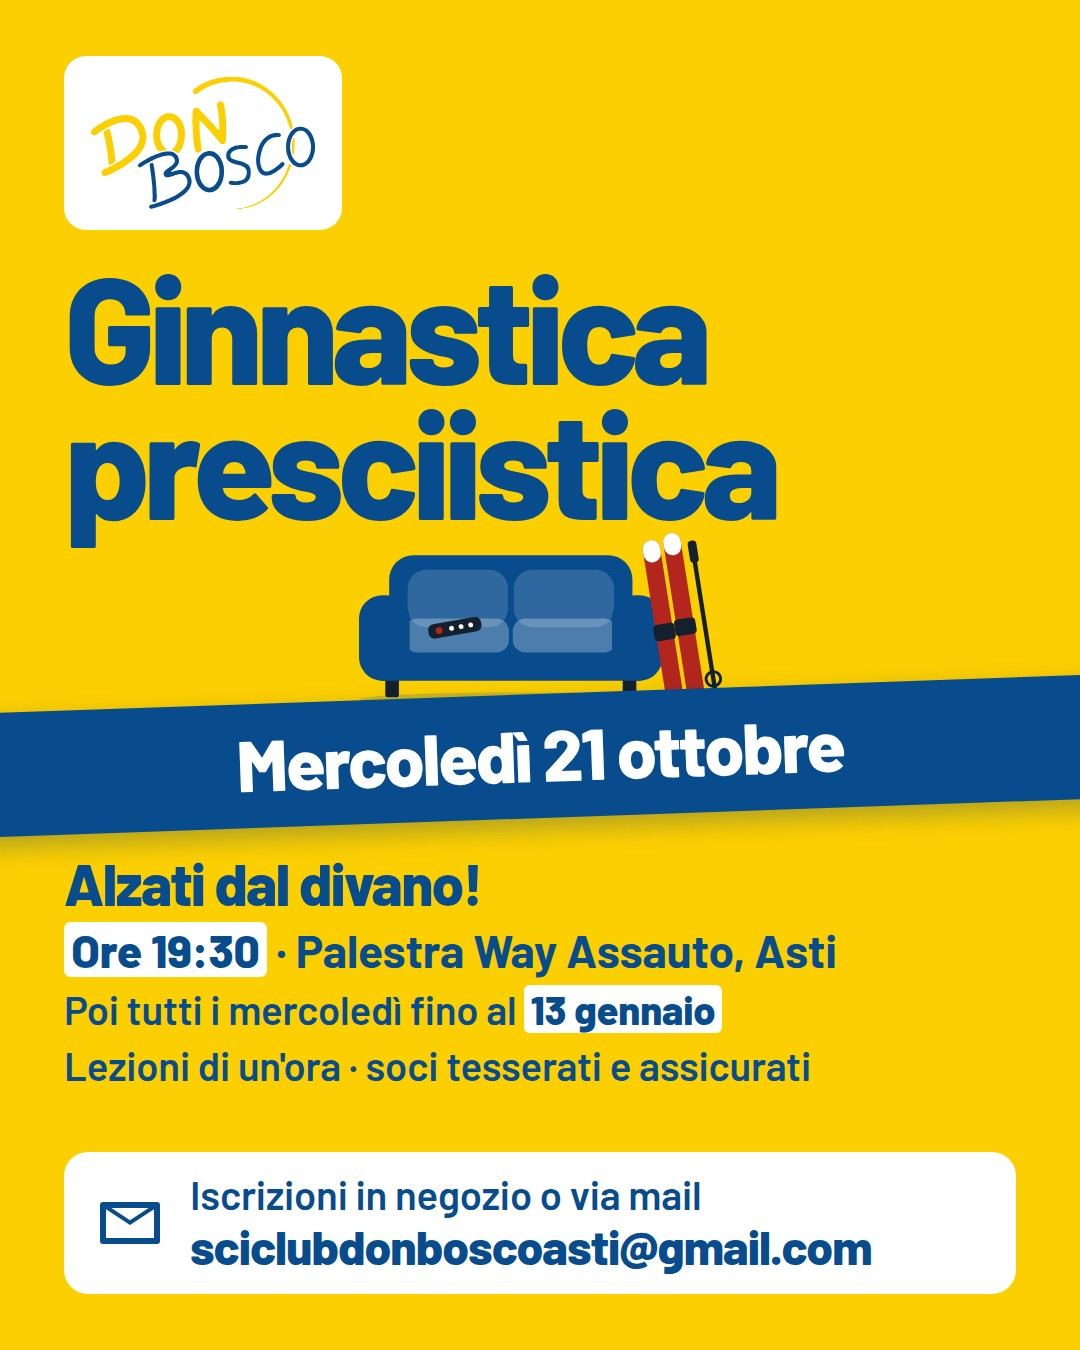
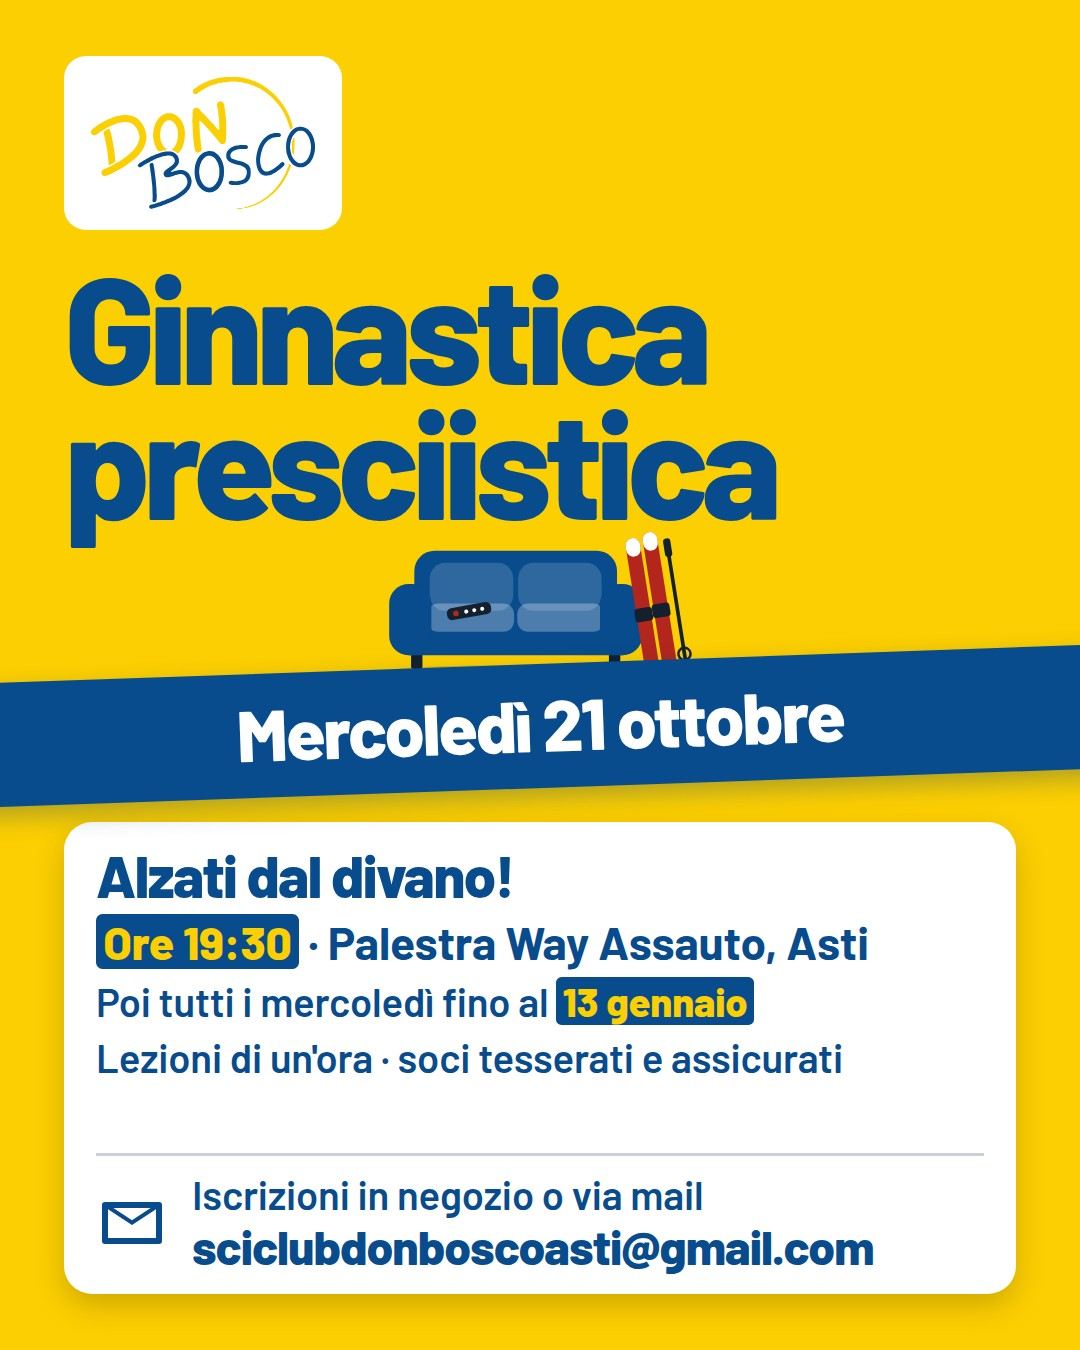
docs(social): C con i dati in un riquadro bianco unico [skip ci]
Sotto la fascia con la data, un riquadro bianco uguale in tutti i post di C,
sul giallo e sul blu: dentro il gancio e i dati in blu, orari, prezzi e
scadenze in un riquadrino blu con la scritta gialla, in fondo le iscrizioni
dopo un filo. Il disegno passa da 180 a 150 px in tutti i post per far stare
la cena; nel calendario le gite stanno nel riquadro, righe un po' più
strette; nella gita le partenze senza "ore" per stare su una riga.

diff --git a/grafica/proposte-post-social/sorgenti/corso-c.html b/grafica/proposte-post-social/sorgenti/corso-c.html
@@ -27,7 +27,7 @@ html.story .gancio { height: auto; }
 html.story .gancio { font-size: 150px; margin-top: 44px; }
 
 .scena { flex: 1 1 0; min-height: 0; position: relative; z-index: 1; margin-bottom: -14px; }
-html.post .scena { flex: none; height: 180px; }
+html.post .scena { flex: none; height: 150px; }
 .scena svg { position: absolute; inset: 0; width: 100%; height: 100%; }
 
 .nastro { flex: none; position: relative; z-index: 2; margin: 0 -110px; background: var(--blu); color: #fff;
@@ -35,21 +35,27 @@ html.post .scena { flex: none; height: 180px; }
   box-shadow: 0 10px 24px rgba(6,57,106,.3); }
 html.story .nastro { font-size: 88px; }
 
-.info { flex: none; margin-top: 34px; }
-html.post .info { flex: 1 1 auto; }
+.info { flex: 1 1 auto; }
 .info .quando { font-size: 58px; font-weight: 800; letter-spacing: -.025em; line-height: 1.1; }
 .info .dove { font-size: 46px; font-weight: 700; margin-top: 8px; line-height: 1.15; }
 .info .poi { font-size: 40px; font-weight: 600; margin-top: 8px; line-height: 1.2; }
 /* Orari e date evidenziati come col pennarello, come negli altri post di C. */
-.info b { font-weight: 800; background: #fff; color: var(--blu); padding: 0 .16em; border-radius: .14em; }
+
 /* Iscrizioni e mail, come in fondo al biglietto di A. */
-/* Iscrizioni in un riquadro bianco, come negli altri post di C. */
-.iscrizioni { flex: none; display: flex; gap: 24px; align-items: center; margin-top: 20px; padding: 18px 30px;
-  background: #fff; color: var(--blu); border-radius: 24px; }
+/* Come negli altri post di C: sotto la fascia un riquadro bianco: gancio e dati in
+ * blu, orari/prezzi/scadenze in un riquadrino blu con la scritta gialla (5,8:1), in
+ * fondo le iscrizioni dopo un filo. Si legge sul giallo e sul blu allo stesso modo. */
+.scheda { flex: 1 1 auto; min-height: 0; overflow: hidden; display: flex; flex-direction: column; margin-top: 34px;
+  background: #fff; color: var(--blu); border-radius: 28px; padding: 22px 32px 18px; box-shadow: 0 12px 30px rgba(0,0,0,.18); }
+.scheda .info, .scheda .righe { flex: 1 1 auto; margin-top: 0; }
+.info b { font-weight: 800; background: var(--blu); color: var(--giallo); padding: 0 .16em; border-radius: .14em;
+  -webkit-box-decoration-break: clone; box-decoration-break: clone; }
+.iscrizioni { flex: none; display: flex; gap: 24px; align-items: center; margin-top: 14px; padding-top: 14px;
+  border-top: 3px solid var(--filo); }
 .iscrizioni svg { flex: none; width: 72px; height: 72px; }
 .iscrizioni div { font-size: 40px; font-weight: 600; line-height: 1.2; }
 .iscrizioni b { display: block; font-size: 48px; font-weight: 800; letter-spacing: -.02em; }
-html.story .info { margin-top: 44px; }
+html.story .scheda { flex: none; margin-top: 44px; }
 html.story .info .quando { font-size: 66px; }
 html.story .info .dove { font-size: 56px; }
 html.story .info .poi { font-size: 46px; }
@@ -99,15 +105,17 @@ html.story .iscrizioni svg { width: 70px; height: 70px; }
       </svg>
     </div>
     <div class="nastro">Mercoledì 21 ottobre</div>
-    <div class="info">
-      <div class="quando">Alzati dal divano!</div>
-      <div class="dove"><b>Ore 19:30</b> · Palestra Way Assauto, Asti</div>
-      <div class="poi">Poi tutti i mercoledì fino al <b>13 gennaio</b></div>
-      <div class="poi">Lezioni di un'ora · soci tesserati e assicurati</div>
-    </div>
-    <div class="iscrizioni">
-      <svg viewBox="0 0 24 24" fill="#084C8D" aria-hidden="true"><path d="M3 5h18a1 1 0 0 1 1 1v12a1 1 0 0 1-1 1H3a1 1 0 0 1-1-1V6a1 1 0 0 1 1-1zm1 2.4V17h16V7.4l-8 5.3-8-5.3zM5.8 7 12 11.1 18.2 7H5.8z"/></svg>
-      <div>Iscrizioni in negozio o via mail<b>sciclubdonboscoasti@gmail.com</b></div>
+    <div class="scheda">
+      <div class="info">
+        <div class="quando">Alzati dal divano!</div>
+        <div class="dove"><b>Ore 19:30</b> · Palestra Way Assauto, Asti</div>
+        <div class="poi">Poi tutti i mercoledì fino al <b>13 gennaio</b></div>
+        <div class="poi">Lezioni di un'ora · soci tesserati e assicurati</div>
+      </div>
+      <div class="iscrizioni">
+        <svg viewBox="0 0 24 24" fill="#084C8D" aria-hidden="true"><path d="M3 5h18a1 1 0 0 1 1 1v12a1 1 0 0 1-1 1H3a1 1 0 0 1-1-1V6a1 1 0 0 1 1-1zm1 2.4V17h16V7.4l-8 5.3-8-5.3zM5.8 7 12 11.1 18.2 7H5.8z"/></svg>
+        <div>Iscrizioni in negozio o via mail<b>sciclubdonboscoasti@gmail.com</b></div>
+      </div>
     </div>
   </div>
 </div>

diff --git a/grafica/proposte-post-social/sorgenti/calendario-c.html b/grafica/proposte-post-social/sorgenti/calendario-c.html
@@ -10,11 +10,11 @@
 <style>
 html { --cat: #084C8D; --cat-ink: #fff; --gancio: #FCCF02; --nastro: #FCCF02; --nastro-ink: #084C8D; }
 .nastro { margin-top: 34px; }
-.righe { flex: 1 1 auto; display: flex; flex-direction: column; justify-content: center; gap: 10px; margin-top: 26px; }
+.righe { display: flex; flex-direction: column; justify-content: center; gap: 4px; }
 .righe div { display: flex; align-items: center; gap: 20px; }
-.giorno { flex: none; width: 210px; text-align: center; border-radius: 999px; font-size: 36px; font-weight: 800; padding: 4px 0; border: 3px solid #fff; }
-.meta { font-size: 54px; font-weight: 800; letter-spacing: -.02em; }
-.corso { margin-left: auto; display: flex; align-items: center; gap: 8px; font-size: 36px; font-weight: 800; color: var(--giallo); }
+.giorno { flex: none; width: 210px; text-align: center; border-radius: 999px; font-size: 36px; font-weight: 800; padding: 4px 0; }
+.meta { font-size: 50px; font-weight: 800; letter-spacing: -.02em; }
+.corso { margin-left: auto; display: flex; align-items: center; gap: 8px; font-size: 36px; font-weight: 800; }
 .corso svg { width: 44px; height: 44px; }
 .dom { background: #FCCF02; color: #084C8D; } .sab { background: #084C8D; color: #fff; }
 </style>
@@ -33,17 +33,19 @@ html { --cat: #084C8D; --cat-ink: #fff; --gancio: #FCCF02; --nastro: #FCCF02; --
     </div>
     <div class="gancio">Calendario<br>di gennaio</div>
     <div class="nastro">Le gite del mese</div>
-    <div class="righe">
-      <div><span class="giorno dom">Dom 10</span><span class="meta">Prato Nevoso</span><span class="corso"><svg><use href="#sciatore"/></svg>corso</span></div>
-      <div><span class="giorno sab">Sab 16</span><span class="meta">Sestriere</span></div>
-      <div><span class="giorno dom">Dom 17</span><span class="meta">La Thuile</span><span class="corso"><svg><use href="#sciatore"/></svg>corso</span></div>
-      <div><span class="giorno sab">Sab 23</span><span class="meta">Courmayeur</span></div>
-      <div><span class="giorno dom">Dom 24</span><span class="meta">Cervinia</span><span class="corso"><svg><use href="#sciatore"/></svg>corso</span></div>
-      <div><span class="giorno dom">Dom 31</span><span class="meta">Pila</span><span class="corso"><svg><use href="#sciatore"/></svg>corso</span></div>
-    </div>
-    <div class="iscrizioni">
-      <svg viewBox="0 0 24 24" aria-hidden="true"><path d="M3 5h18a1 1 0 0 1 1 1v12a1 1 0 0 1-1 1H3a1 1 0 0 1-1-1V6a1 1 0 0 1 1-1zm1 2.4V17h16V7.4l-8 5.3-8-5.3zM5.8 7 12 11.1 18.2 7H5.8z"/></svg>
-      <div>Iscrizioni in negozio o via mail<b>sciclubdonboscoasti@gmail.com</b></div>
+    <div class="scheda">
+      <div class="righe">
+        <div><span class="giorno dom">Dom 10</span><span class="meta">Prato Nevoso</span><span class="corso"><svg><use href="#sciatore"/></svg>corso</span></div>
+        <div><span class="giorno sab">Sab 16</span><span class="meta">Sestriere</span></div>
+        <div><span class="giorno dom">Dom 17</span><span class="meta">La Thuile</span><span class="corso"><svg><use href="#sciatore"/></svg>corso</span></div>
+        <div><span class="giorno sab">Sab 23</span><span class="meta">Courmayeur</span></div>
+        <div><span class="giorno dom">Dom 24</span><span class="meta">Cervinia</span><span class="corso"><svg><use href="#sciatore"/></svg>corso</span></div>
+        <div><span class="giorno dom">Dom 31</span><span class="meta">Pila</span><span class="corso"><svg><use href="#sciatore"/></svg>corso</span></div>
+      </div>
+      <div class="iscrizioni">
+        <svg viewBox="0 0 24 24" aria-hidden="true"><path d="M3 5h18a1 1 0 0 1 1 1v12a1 1 0 0 1-1 1H3a1 1 0 0 1-1-1V6a1 1 0 0 1 1-1zm1 2.4V17h16V7.4l-8 5.3-8-5.3zM5.8 7 12 11.1 18.2 7H5.8z"/></svg>
+        <div>Iscrizioni in negozio o via mail<b>sciclubdonboscoasti@gmail.com</b></div>
+      </div>
     </div>
   </div>
 </div>

diff --git a/grafica/proposte-post-social/sorgenti/c.css b/grafica/proposte-post-social/sorgenti/c.css
@@ -14,25 +14,27 @@
  * sempre nello stesso punto in tutti i post. */
 .gancio { flex: none; height: 270px; font-size: 150px; font-weight: 800; letter-spacing: -.045em; line-height: .9; margin-top: 28px; color: var(--gancio, inherit); }
 
-.scena { flex: none; height: 180px; position: relative; z-index: 1; margin-bottom: -14px; }
+.scena { flex: none; height: 150px; position: relative; z-index: 1; margin-bottom: -14px; }
 .scena svg { position: absolute; inset: 0; width: 100%; height: 100%; }
 
 .nastro { flex: none; position: relative; z-index: 2; margin: 0 -110px; background: var(--nastro, var(--blu)); color: var(--nastro-ink, #fff);
   transform: rotate(-2deg); text-align: center; font-size: 72px; font-weight: 800; letter-spacing: -.03em; padding: 16px 0 22px; white-space: nowrap;
   box-shadow: 0 10px 24px rgba(6,57,106,.3); }
 
-.info { flex: 1 1 auto; margin-top: 34px; }
+.info { flex: 1 1 auto; }
 .info .quando { font-size: 58px; font-weight: 800; letter-spacing: -.025em; line-height: 1.1; }
 .info .riga { font-size: 46px; font-weight: 700; margin-top: 8px; line-height: 1.15; }
 .info .poi { font-size: 40px; font-weight: 600; margin-top: 8px; line-height: 1.2; }
-/* Orari, prezzi e scadenze: riquadro bianco con la scritta blu, uguale sul giallo
- * e sul blu (contrasto 8,7:1). Lo stesso bianco delle iscrizioni qui sotto. */
-.info b { font-weight: 800; background: #fff; color: var(--blu); padding: 0 .16em; border-radius: .14em;
+/* Sotto la fascia, un riquadro bianco uguale in tutti i post di C: gancio e dati in
+ * blu, orari/prezzi/scadenze in un riquadrino blu con la scritta gialla (5,8:1), in
+ * fondo le iscrizioni dopo un filo. Si legge sul giallo e sul blu allo stesso modo. */
+.scheda { flex: 1 1 auto; min-height: 0; overflow: hidden; display: flex; flex-direction: column; margin-top: 34px;
+  background: #fff; color: var(--blu); border-radius: 28px; padding: 22px 32px 18px; box-shadow: 0 12px 30px rgba(0,0,0,.18); }
+.scheda .info, .scheda .righe { flex: 1 1 auto; margin-top: 0; }
+.info b { font-weight: 800; background: var(--blu); color: var(--giallo); padding: 0 .16em; border-radius: .14em;
   -webkit-box-decoration-break: clone; box-decoration-break: clone; }
-
-/* Iscrizioni in un riquadro bianco, più grandi: si devono vedere in tutti i post. */
-.iscrizioni { flex: none; display: flex; gap: 24px; align-items: center; margin-top: 20px; padding: 18px 30px;
-  background: #fff; color: var(--blu); border-radius: 24px; }
+.iscrizioni { flex: none; display: flex; gap: 24px; align-items: center; margin-top: 14px; padding-top: 14px;
+  border-top: 3px solid var(--filo); }
 .iscrizioni svg { flex: none; width: 72px; height: 72px; fill: currentColor; }
 .iscrizioni div { font-size: 40px; font-weight: 600; line-height: 1.2; }
 .iscrizioni b { display: block; font-size: 48px; font-weight: 800; letter-spacing: -.02em; }

diff --git a/grafica/proposte-post-social/sorgenti/evento-c.html b/grafica/proposte-post-social/sorgenti/evento-c.html
@@ -41,16 +41,18 @@ html { --cat: #084C8D; --cat-ink: #fff; --gancio: #FCCF02; --nastro: #FCCF02; --
         </svg>
     </div>
     <div class="nastro">Sabato 10 aprile</div>
-    <div class="info">
-      <div class="quando">Si chiude in festa!</div>
-      <div class="riga">Salone dell'oratorio Don Bosco, Asti</div>
-      <div class="riga"><b>Ore 20:00</b> · soci <b>€ 30</b> · bambini <b>€ 15</b></div>
-      <div class="poi">Con le premiazioni della gara sociale</div>
-      <div class="poi">Iscrizioni entro <b>mercoledì 7 aprile</b></div>
-    </div>
-    <div class="iscrizioni">
-      <svg viewBox="0 0 24 24" aria-hidden="true"><path d="M3 5h18a1 1 0 0 1 1 1v12a1 1 0 0 1-1 1H3a1 1 0 0 1-1-1V6a1 1 0 0 1 1-1zm1 2.4V17h16V7.4l-8 5.3-8-5.3zM5.8 7 12 11.1 18.2 7H5.8z"/></svg>
-      <div>Iscrizioni in negozio o via mail<b>sciclubdonboscoasti@gmail.com</b></div>
+    <div class="scheda">
+      <div class="info">
+        <div class="quando">Si chiude in festa!</div>
+        <div class="riga">Salone dell'oratorio Don Bosco, Asti</div>
+        <div class="riga"><b>Ore 20:00</b> · soci <b>€ 30</b> · bambini <b>€ 15</b></div>
+        <div class="poi">Con le premiazioni della gara sociale</div>
+        <div class="poi">Iscrizioni entro <b>mercoledì 7 aprile</b></div>
+      </div>
+      <div class="iscrizioni">
+        <svg viewBox="0 0 24 24" aria-hidden="true"><path d="M3 5h18a1 1 0 0 1 1 1v12a1 1 0 0 1-1 1H3a1 1 0 0 1-1-1V6a1 1 0 0 1 1-1zm1 2.4V17h16V7.4l-8 5.3-8-5.3zM5.8 7 12 11.1 18.2 7H5.8z"/></svg>
+        <div>Iscrizioni in negozio o via mail<b>sciclubdonboscoasti@gmail.com</b></div>
+      </div>
     </div>
   </div>
 </div>

diff --git a/grafica/proposte-post-social/sorgenti/gita-c.html b/grafica/proposte-post-social/sorgenti/gita-c.html
@@ -38,15 +38,17 @@
       </svg>
     </div>
     <div class="nastro">Domenica 17 gennaio</div>
-    <div class="info">
-      <div class="quando">Tutti in pista!</div>
-      <div class="riga">Partenze: <b>ore 6:30</b> Asti · <b>ore 6:45</b> Moncalvo</div>
-      <div class="riga">Soci <b>€ 52</b> · non soci <b>€ 60</b></div>
-      <div class="poi">Iscrizioni entro <b>giovedì 14 gennaio</b></div>
-    </div>
-    <div class="iscrizioni">
-      <svg viewBox="0 0 24 24" aria-hidden="true"><path d="M3 5h18a1 1 0 0 1 1 1v12a1 1 0 0 1-1 1H3a1 1 0 0 1-1-1V6a1 1 0 0 1 1-1zm1 2.4V17h16V7.4l-8 5.3-8-5.3zM5.8 7 12 11.1 18.2 7H5.8z"/></svg>
-      <div>Iscrizioni in negozio o via mail<b>sciclubdonboscoasti@gmail.com</b></div>
+    <div class="scheda">
+      <div class="info">
+        <div class="quando">Tutti in pista!</div>
+        <div class="riga">Partenze: <b>6:30</b> Asti · <b>6:45</b> Moncalvo</div>
+        <div class="riga">Soci <b>€ 52</b> · non soci <b>€ 60</b></div>
+        <div class="poi">Iscrizioni entro <b>giovedì 14 gennaio</b></div>
+      </div>
+      <div class="iscrizioni">
+        <svg viewBox="0 0 24 24" aria-hidden="true"><path d="M3 5h18a1 1 0 0 1 1 1v12a1 1 0 0 1-1 1H3a1 1 0 0 1-1-1V6a1 1 0 0 1 1-1zm1 2.4V17h16V7.4l-8 5.3-8-5.3zM5.8 7 12 11.1 18.2 7H5.8z"/></svg>
+        <div>Iscrizioni in negozio o via mail<b>sciclubdonboscoasti@gmail.com</b></div>
+      </div>
     </div>
   </div>
 </div>

diff --git a/grafica/proposte-post-social/sorgenti/tavola.html b/grafica/proposte-post-social/sorgenti/tavola.html
@@ -29,7 +29,7 @@ img { display: block; width: 380px; border-radius: 12px; box-shadow: 0 6px 20px 
 const PROPOSTE = {
   a: { nome: "Biglietto", idea: "Il biglietto bianco sul colore del post, in alto la foto caricata nel generatore (senza foto, il disegno)." },
   b: { nome: "Calendario", idea: "Sempre il blu del club; il foglio a strappo porta la data; nel calendario, le gite del mese sul foglio." },
-  c: { nome: "Divano", idea: "Il manifesto: in alto il nome grande, nella fascia la data, sotto il gancio («Alzati dal divano!», «Tutti in pista!»…) e i dati." },
+  c: { nome: "Divano", idea: "Il manifesto: in alto il nome grande, nella fascia la data, sotto in un riquadro bianco il gancio («Alzati dal divano!», «Tutti in pista!»…) e i dati." },
 };
 const chiave = location.hash.slice(1) in PROPOSTE ? location.hash.slice(1) : "a", p = PROPOSTE[chiave];
 document.getElementById("titolo").innerHTML = `<b>${chiave.toUpperCase()}</b> · ${p.nome}: corso, gita, evento e calendario`;

diff --git a/grafica/proposte-post-social/README.md b/grafica/proposte-post-social/README.md
@@ -45,7 +45,8 @@ hanno dati inventati.
   corso è un'etichetta contornata, non piena, per non confondersi.
 - **C** è "Divano" per la presciistica. In alto il nome ("Ginnastica
   presciistica", "Gita a La Thuile"), nella fascia la data, sotto il gancio
-  ("Alzati dal divano!", "Tutti in pista!", "Si chiude in festa!") e i dati: si
+  ("Alzati dal divano!", "Tutti in pista!", "Si chiude in festa!") e i dati, in
+  un riquadro bianco uguale sul giallo e sul blu, con le iscrizioni in fondo: si
   capisce subito cos'è e quando. Il gancio va scritto post per post: è la
   grafica che chiede più lavoro a chi pubblica.
 - **Titoli che dicono cos'è:** "Gita a La Thuile", non solo il posto;
@@ -68,8 +69,8 @@ sono bianco trasparente sul blu; i riquadri in evidenza sono gialli.
 |---|---|---|---|
 | Titolo | 104, sempre alto 2 righe (+ sottotitolo 40) | 104, sempre alto 2 righe | nome 150 su 2 righe; fascia con la data 72 |
 | Dati | etichette 36, valori 50 | etichette 38, valori 56, note 40 | gancio 58 ("Alzati dal divano!"), righe 46, note 40 |
-| In evidenza | orari, prezzi, scadenze in blu | orari e prezzi in giallo; riquadro giallo 54 | orari, prezzi, scadenze in un riquadro bianco con la scritta blu, uguale su giallo e su blu |
-| Iscrizioni | 40 / 46, nel biglietto | 40 / 48, in un riquadro bianco | 40 / 48, in un riquadro bianco |
+| In evidenza | orari, prezzi, scadenze in blu | orari e prezzi in giallo; riquadro giallo 54 | sotto la fascia un riquadro bianco uguale in tutti i post, testo blu; orari, prezzi e scadenze in un riquadrino blu con la scritta gialla |
+| Iscrizioni | 40 / 46, nel biglietto | 40 / 48, in un riquadro bianco | 40 / 48, in fondo al riquadro bianco, dopo un filo |
 
 Nel foglio di B mese 46, giorno 48, numero 250 e ora 58: il foglio è lungo
 uguale anche quando l'ora non c'è (la gita).
